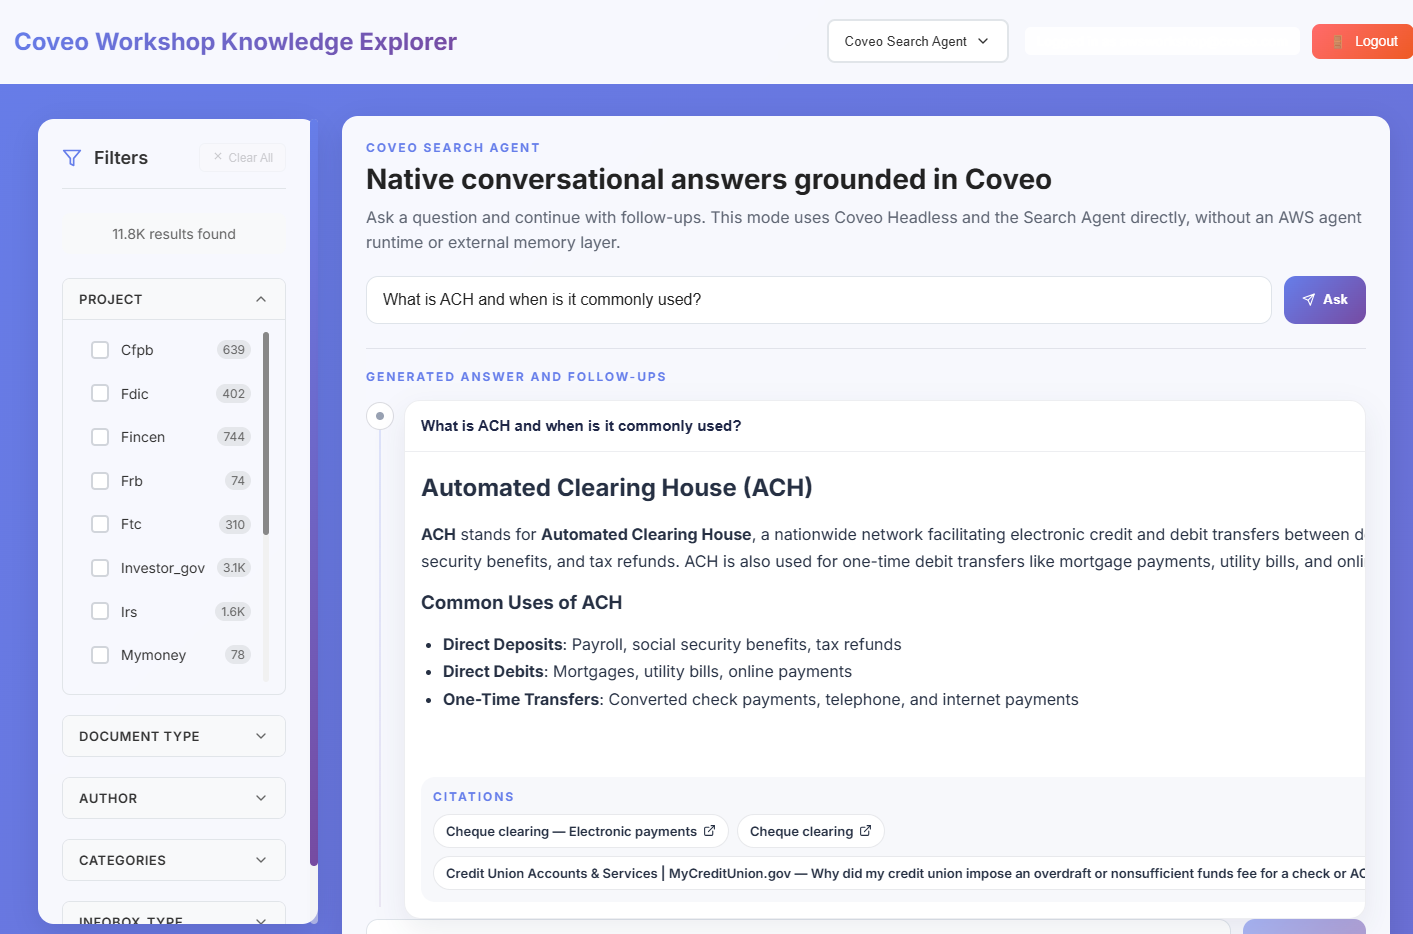
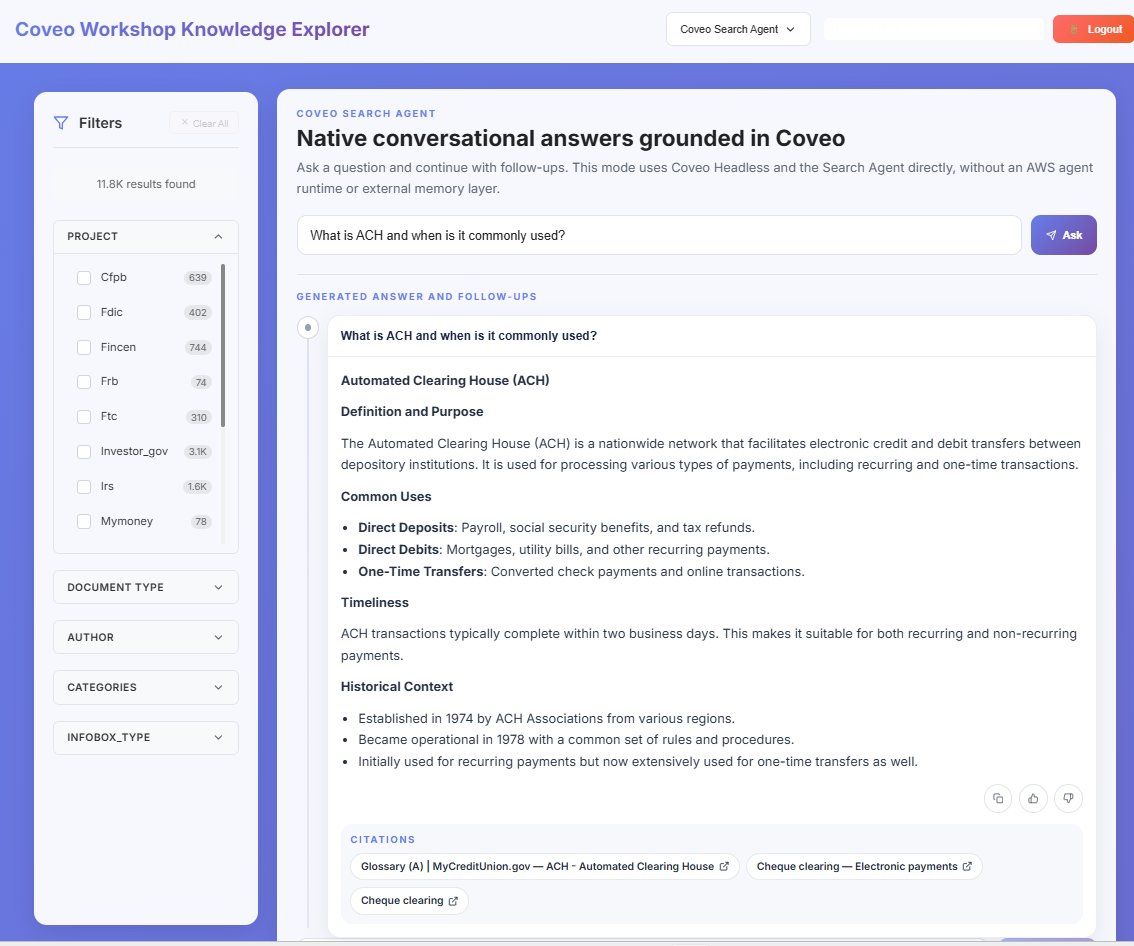
Fix Lab 3 answer card overflow issue and update SearchAgent images
- Add CSS containment (min-width: 0) to TurnCard, AnswerArea, AnswerBody
- Add text wrapping (overflow-wrap, word-break) to answer text elements
- Add flex-wrap to action buttons container to keep copy/like/dislike visible
- Update SearchAgent documentation images (SearchAgent-5.png, SearchAgent-6.png)

diff --git a/frontend/client/src/components/SearchAgentWorkspace.jsx b/frontend/client/src/components/SearchAgentWorkspace.jsx
@@ -162,6 +162,7 @@ const TurnCard = styled.div`
   border: 1px solid rgba(31, 39, 71, 0.08);
   border-radius: 16px;
   box-shadow: ${props => props.$active ? '0 12px 30px rgba(28, 35, 71, 0.08)' : 'none'};
+  min-width: 0;
   overflow: hidden;
 `;
 
@@ -181,6 +182,13 @@ const QuestionButton = styled.button`
   text-align: left;
   width: 100%;
 
+  span {
+    flex: 1;
+    min-width: 0;
+    overflow-wrap: anywhere;
+    word-break: break-word;
+  }
+
   &:hover {
     background: ${props => props.$collapsible ? '#f7f8fb' : 'transparent'};
   }
@@ -190,6 +198,7 @@ const AnswerArea = styled.div`
   border-top: 1px solid rgba(31, 39, 71, 0.08);
   display: grid;
   gap: 14px;
+  min-width: 0;
   padding: 16px;
 `;
 
@@ -198,6 +207,22 @@ const AnswerBody = styled.div`
   display: grid;
   gap: 12px;
   line-height: 1.7;
+  min-width: 0;
+
+  p, li, a, blockquote {
+    overflow-wrap: anywhere;
+    word-break: break-word;
+  }
+
+  pre, code {
+    max-width: 100%;
+    overflow-wrap: anywhere;
+    word-break: break-word;
+  }
+
+  pre {
+    white-space: pre-wrap;
+  }
 
   p, ul, ol {
     margin: 0;
@@ -215,6 +240,7 @@ const AnswerBody = styled.div`
 
 const Actions = styled.div`
   display: flex;
+  flex-wrap: wrap;
   gap: 8px;
   justify-content: flex-end;
 `;